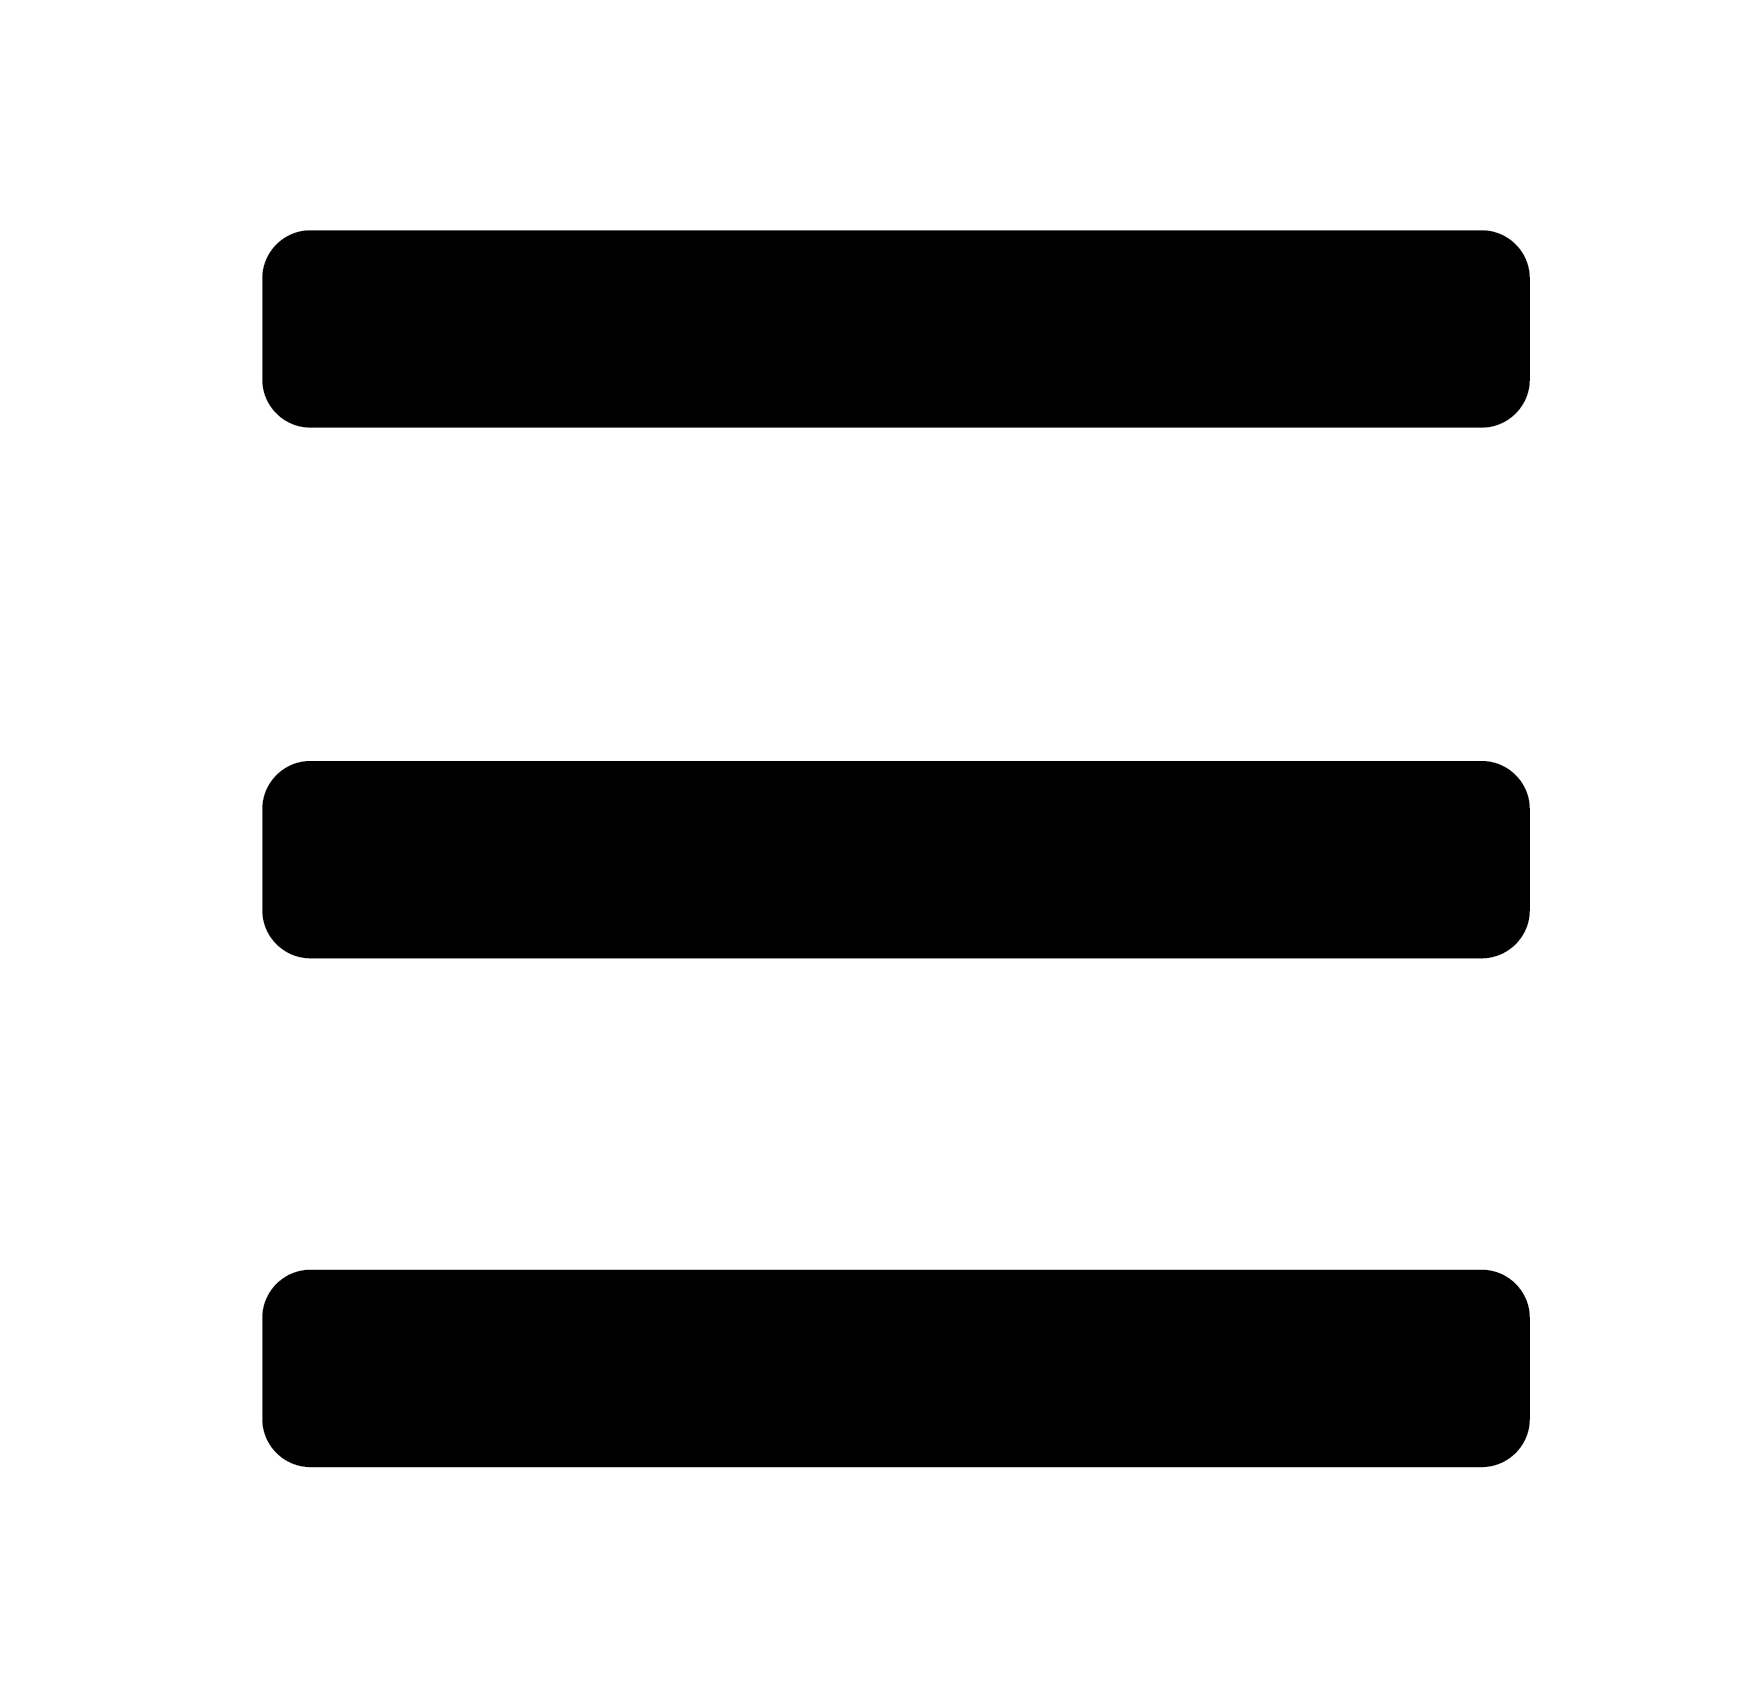
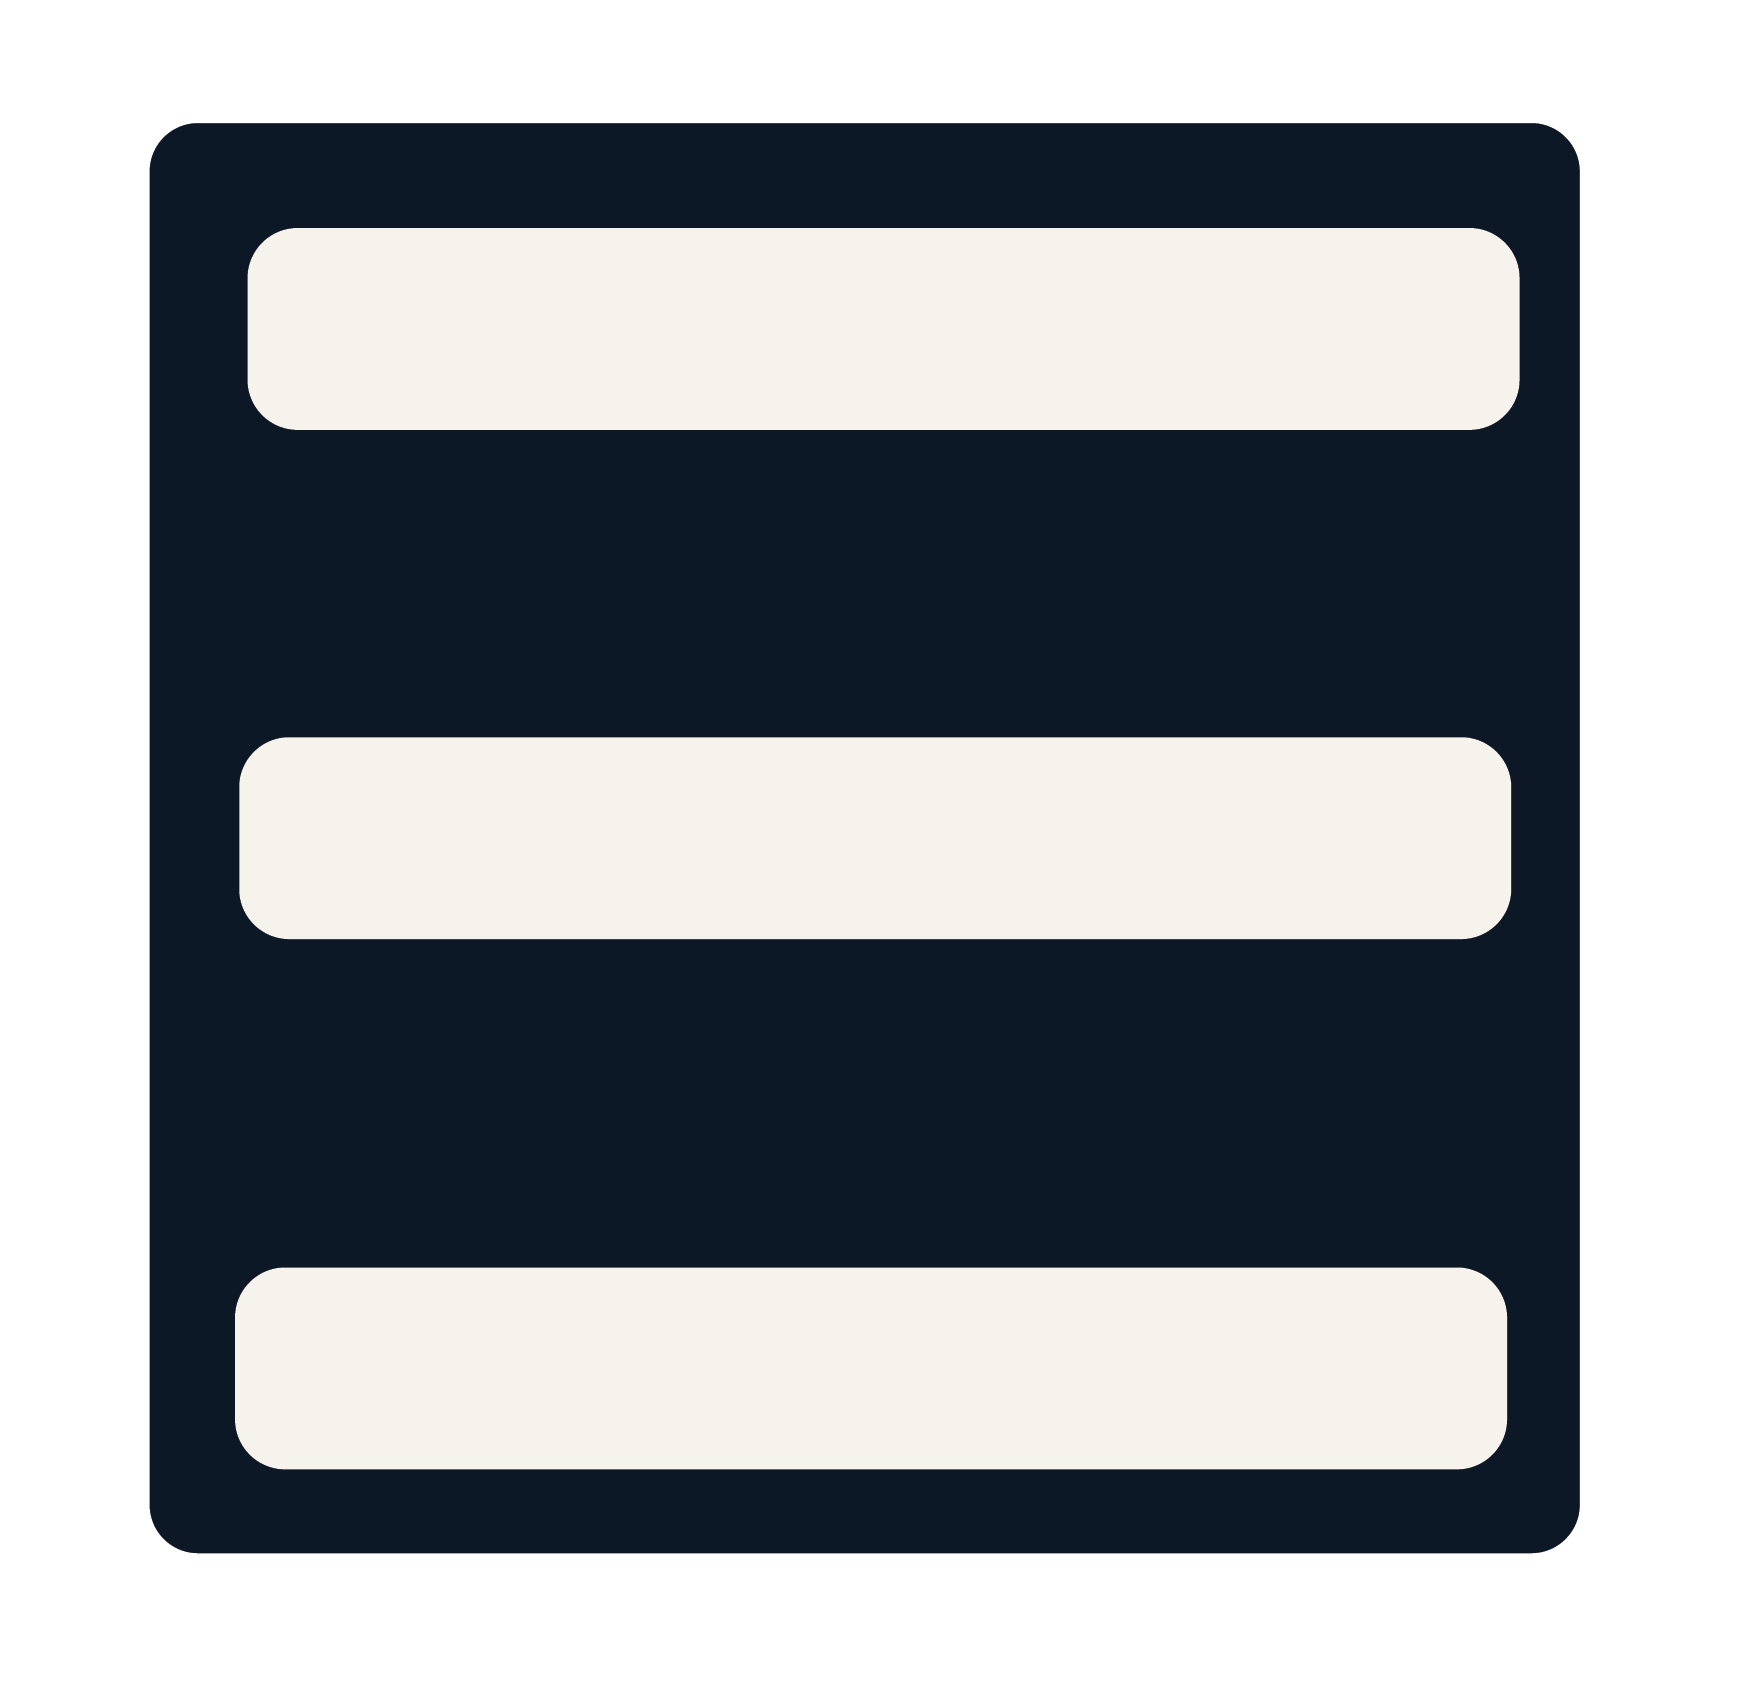
css and html changes

diff --git a/src/css/styles.css b/src/css/styles.css
@@ -1,45 +1,164 @@
 @import url('https://fonts.googleapis.com/css2?family=Exo:ital,wght@0,100..900;1,100..900&display=swap');
 :root{
-    --primary-color: #f0f0f0;
-    --secondary-color: #000000;
-    --tertiary-color: #ffffff;
+    --rich-black: #091726;
+    --light-blue: #77a0b8;
+    --coral-pink: #dd9a88;
+    --chestnut: #a43f2f;
+    --white: #f4f0e9;
+    
 }
 body{
     margin:0;
     padding:0;
+    font-family: 'Exo', sans-serif;
 }
 header{
     display: grid;
-    grid-template-columns: 1fr 1fr;
+    grid-template-columns: 1fr 1fr 1fr;
 }
 .menu{
-    width: 10%;
+    width: 15%;
     z-index: 100;
     grid-column: 1/2;
     grid-row: 1/2;
     padding-left: 3%;
     padding-right: 3%;
-    padding-top: 3%;
+    padding-top: 6%;
+   
 }
 .changing_image{
     width: 100%;
-    height: 20%;
+    height: 15%;
     object-fit: cover;
-    margin-bottom:0px;
-    padding-bottom: 0px;
+    padding-bottom: 5%;
     grid-column: 1/4;
-    grid-row: 1/3;
+    grid-row: 1/2;
     background-color: var(--primary-color);
     z-index: 0;
 }
 .logo{
+    align-items: center;
+    padding-top:3%;
     margin-left: auto;
     margin-right: auto;
+    margin-top: 3%;
     grid-column: 1/4;
-    width: 90%;
-    grid-row: 2/3;
-    
-    margin-top: 0px;
-    margin-bottom: 20px;
+    grid-row: 1/2;
+    width: 100%;
+    grid-row: 1/2;
     z-index: 200;
+    padding-left: 0px;
+    
+}
+header{
+    background-color: var(--rich-black);
+    margin-bottom: 0px;
+}
+#index_h2{
+    font-family: var(--bold-font);
+    font-size: 3em;
+    text-align: left;
+    margin-top: 0px;
+    margin-bottom: 0px;
+    color: var(--rich-black);
+    padding-top: 2%;
+    padding-left: 3%;
+    grid-column: 1/4;
+
+}
+.find_a_image_area{
+    background-color: var(--white);
+    grid-column: 1/4;
+    grid-row: 1/2;
+    padding-top: 2%;
+    padding-bottom: 4%;
+    padding-left: 3%;
+    padding-right: 3%;
+}
+main{
+    display: grid;
+    grid-template-columns: 1fr 1fr 1fr .5fr;
+
+}
+#main_changing_image{
+    grid-column: 4/5;
+    grid-row:1/5;
+    width: 100%;
+    height: 100%;
+    object-fit: cover;
+    padding-bottom: 1%;
+}
+#form_button{ 
+    /* put this is the smaller media for smaller screens */
+    background-color: var(--chestnut);
+    color: var(--white);
+    font-family: "Exo", sans-serif;
+    font-weight: light;
+    font-size: 2em;
+    grid-column: 2/4;
+    margin-left: auto;
+    margin-right: auto;
+    width: 90%;
+    height: 50%;
+    margin-left: 5%;
+    border: none;
+    padding-top: 1%;
+}
+.image_of_the_day{
+    display: flex;
+    flex-direction: column;
+    grid-column: 1/4;
+    background-color: var(--chestnut);
+    margin-bottom: 0px;
+    padding-bottom: 0px;
+    
+   
+}
+#index_h3{
+    font-family: var(--bold-font);
+    font-size: 2.5em;
+    padding-top: 0%;
+    margin-top: 1%;
+    text-align: center;
+    color: var(--white);
+    padding-bottom: 0%;
+    margin-bottom: 1%;
+    padding-top: 1%;
+    grid-column: 1/4;
+    
+}
+#daily_mars_rover_image{
+    width: 45%;
+    height: 50%;
+    object-fit: cover;
+    padding-bottom: 1%;
+    padding-top: 0%;
+    margin-top: 0%;
+    grid-column: 1/3;
+    
+    
+}
+.daily_mars_info{
+    color: var(--white);
+    padding-top: 0%;
+    margin-top: 0%;
+    padding-bottom: 0%;
+    margin-bottom: 0%;
+    display: flex;
+    flex-direction: column;
+    
+}
+.footer_logo{
+    width:25%;
+    margin-top: 0px;
+    padding-top: 0px;
+}
+footer{
+    padding-top: 0%;
+    margin-top: 0%;
+    background-color: var(--rich-black);
+    color: var(--white);
+    padding-left: 3%;
+    margin-top: 0px;
+    padding-top: 0px;
 }

diff --git a/src/index.html b/src/index.html
@@ -12,11 +12,27 @@
         <img class="menu" src="images/hamburgermenu-01.png">
         <img class="logo" src="images/marstraxlogo-01.png">
     </header>
-
     <main>
-
+        <img class="changing_image" id="main_changing_image" src="images/changingphotoexample.jpg">
+        <div class="find_a_image_area">
+            <h2 id="index_h2">Images of Mars</h2>
+             <button class="center" id="form_button">Find a Image</button>
+        </div>
+        <div class="image_of_the_day">
+            <h3 id="index_h3">Image of the Day</h3>
+            
+            <img id="daily_mars_rover_image" src="images/mars_rover_example.webp">
+            <div class="daily_mars_info">
+            <h2 class="daily_mars_info">Date</h2>
+                <p class="daily_mars_info">10-21-2020</p>
+                <p class="daily_mars_info">other info</p>
+            </div>
+        </div>
     </main>
     <footer>
+        <p>Mars Trax 2020 <br>More Info </p>
+    
+        <img class="footer_logo" src="images/marstraxlogo-01.png">
 
     </footer>
 </body>
